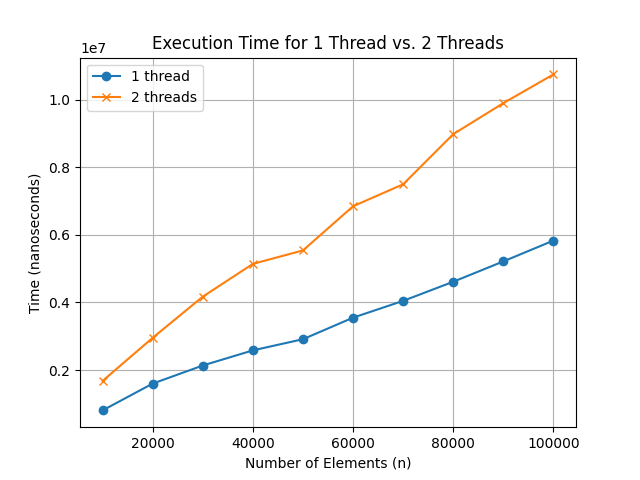
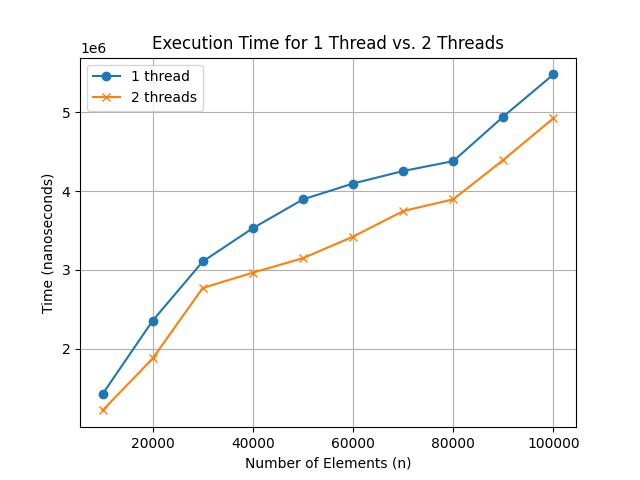
FINALLY

diff --git a/Program2_Stack/version3/mainVersion3.cpp b/Program2_Stack/version3/mainVersion3.cpp
@@ -31,7 +31,6 @@ public:
     {
         this->head = nullptr;
         this->numElements = 0;
-        pthread_mutex_init(&mutex, nullptr);
     }
 
     Node *getHead()
@@ -45,15 +44,9 @@ public:
 
         Node *prevHead = this->head;
 
-        // Lock the mutex to ensure exclusive access to the stack
-        pthread_mutex_lock(&mutex);
-
         this->head = newHead;
         newHead->setNext(prevHead);
         numElements++;
-
-        // Unlock the mutex after modifying the stack
-        pthread_mutex_unlock(&mutex);
     }
 
     int getNumElements()
@@ -64,7 +57,6 @@ public:
 private:
     std::atomic<Node *> head;
     std::atomic<int> numElements;
-    pthread_mutex_t mutex; // Mutex for synchronization
 };
 
 // Update the argument type passed to the thread functions
@@ -94,7 +86,7 @@ void *pushOddNumbers(void *arg)
     pthread_exit(NULL);
 }
 
-void twoThreadsVersion3(int n)
+int twoThreadsVersion3(int n)
 {
     Stack stack;
 
@@ -110,6 +102,8 @@ void twoThreadsVersion3(int n)
 
     pthread_join(t1, NULL);
     pthread_join(t2, NULL);
+
+    return stack.getNumElements();
 }
 
 void pushNumbers(int n)
@@ -133,7 +127,7 @@ void timeTest()
     else
     {
 
-        for (int n = 10000; n <= 100000; n += 10000)
+        for (int n = 100000; n <= 10000000; n += 1000000)
         {
             auto start1 = chrono::high_resolution_clock::now();
             pushNumbers(n); // Push elements using one thread
@@ -153,8 +147,29 @@ void timeTest()
     dataFile.close();
 }
 
+void accuracyTest(int totalTimes)
+{
+
+    int numElementsToTest = 1000;
+    int numCorrect = 0;
+    for (int i = 0; i < totalTimes; i++)
+    {
+        int numElementsReturned = twoThreadsVersion3(numElementsToTest); // Push elements using two threads
+
+        if (numElementsReturned == numElementsToTest)
+        {
+            numCorrect++;
+        }
+    }
+
+    cout << "Accuracy: " << ((1.0 * numCorrect) / (1.0 * totalTimes)) * 100 << "%" << endl;
+}
+
 int main()
 {
     timeTest();
+
+    int numTimes = 10;
+    accuracyTest(numTimes);
     return 0;
 }

diff --git a/Program2_Stack/version3/graphScript.py b/Program2_Stack/version3/graphScript.py
@@ -24,7 +24,7 @@ plt.legend()
 plt.grid(True)
 
 # Save the plot to a file before displaying it
-plt.savefig("version3TimeComparison.png")
+plt.savefig("version3TimeComparison1.png")
 
 # Display the plot
 plt.show()
